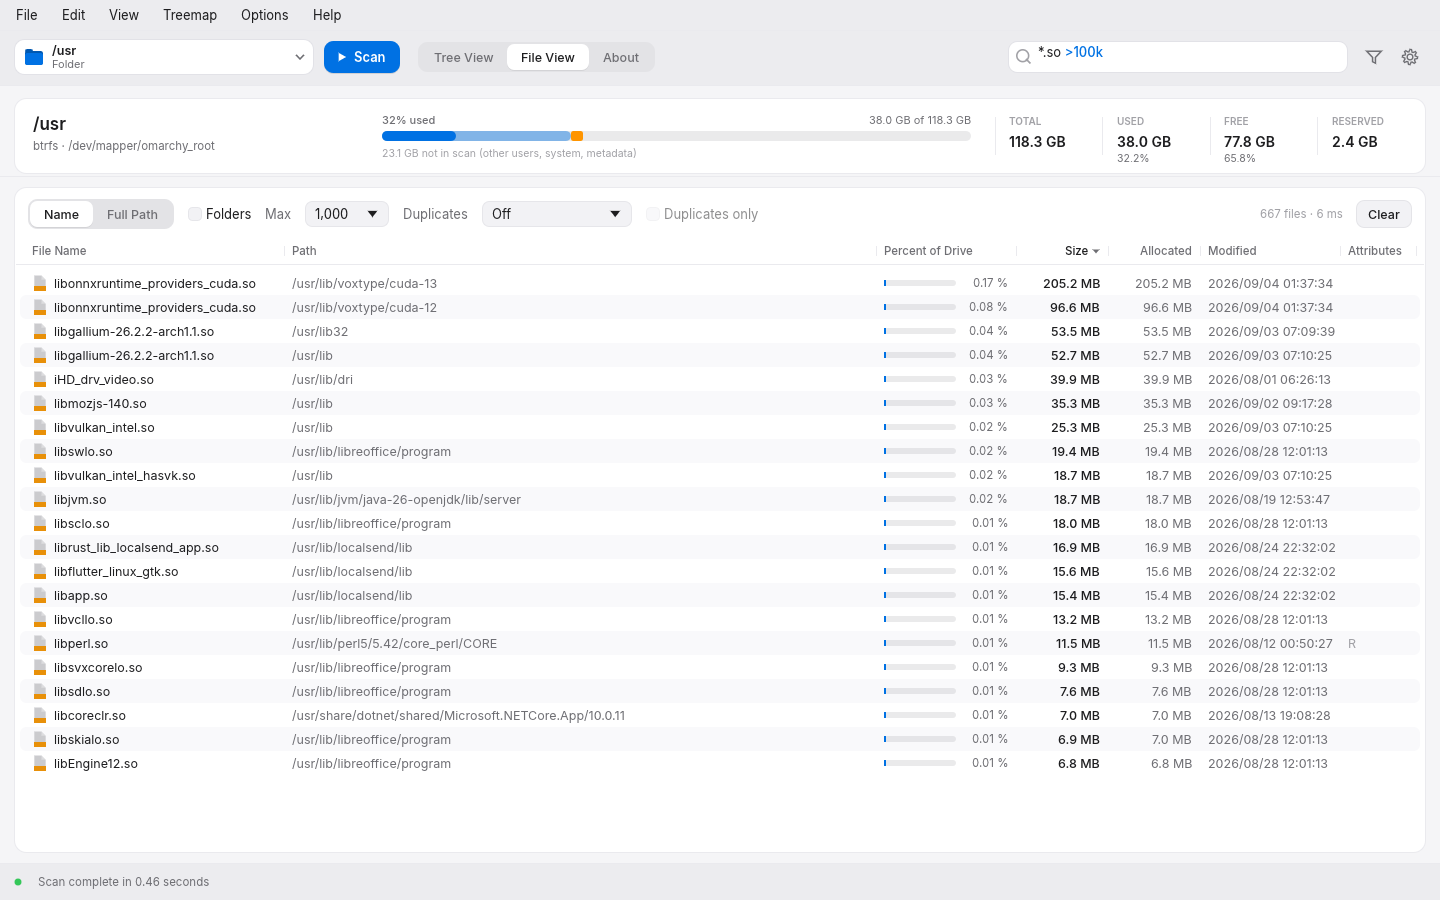
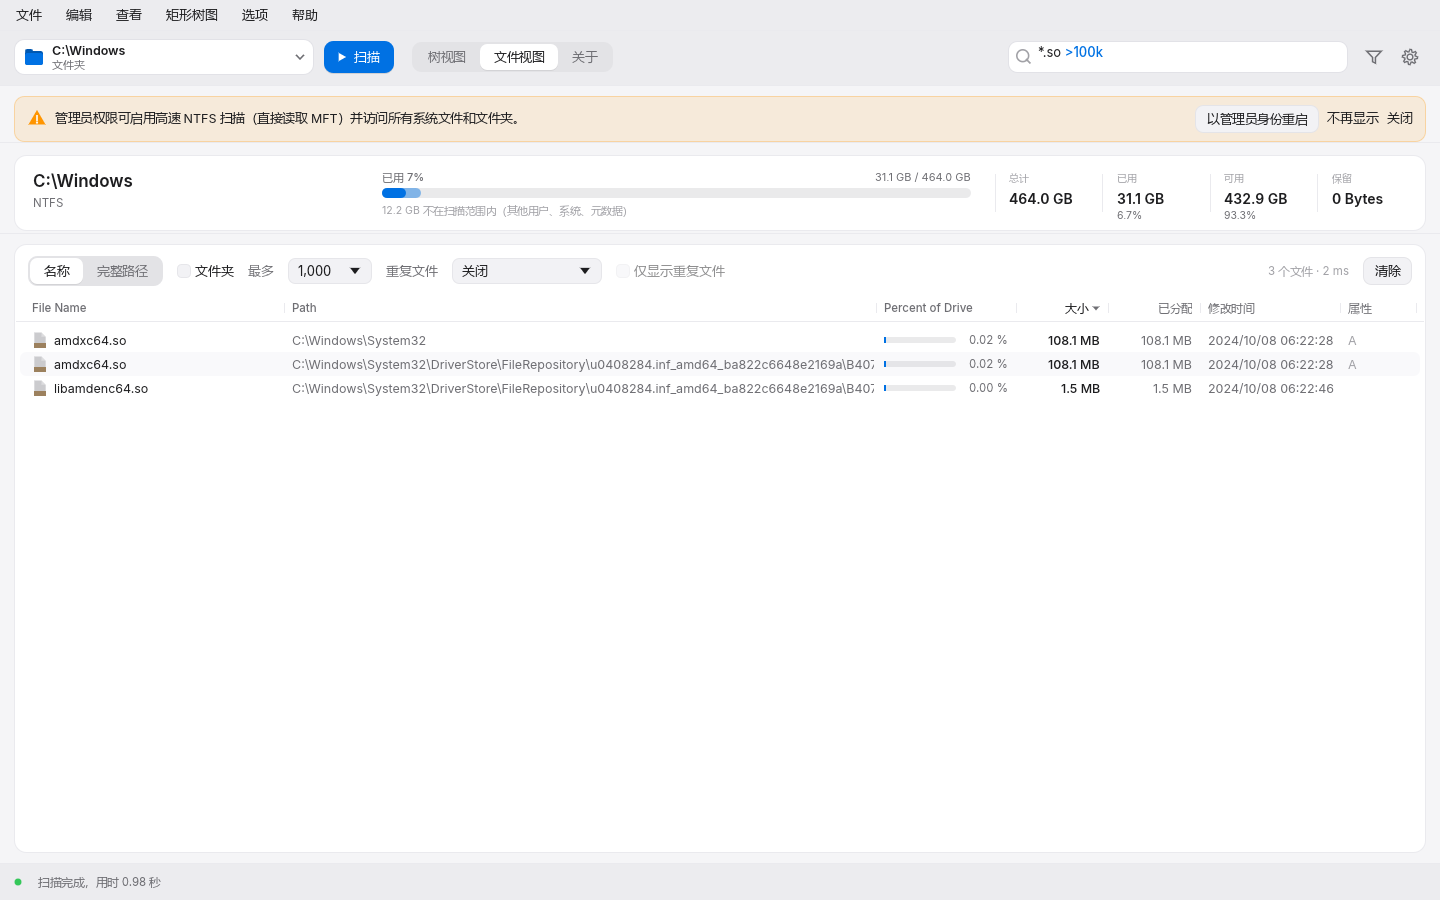
汉化: 文件类型/文件视图全中文 + 更新中文界面截图

diff --git a/src/ui/file_view.rs b/src/ui/file_view.rs
@@ -5,6 +5,7 @@ use super::{App, Cmd, chrome, icons, tree_view};
 use crate::config::{DupMode, Settings};
 use crate::filter::{DupInfo, Matcher};
 use crate::format;
+use crate::i18n::tr;
 use crate::model::{NodeId, Tree, NONE};
 use crate::theme;
 use eframe::egui::{self, Color32, CornerRadius, Id, Pos2, RichText, Stroke, Ui, Vec2};
@@ -249,30 +250,30 @@ fn options_bar(app: &mut App, ui: &mut Ui) {
     let pal = app.pal;
     ui.spacing_mut().item_spacing.x = 14.0;
     let mut mp = app.s.match_path;
-    if chrome::segmented(ui, &pal, &mut mp, &[(false, "Name"), (true, "Full Path")]) {
+    if chrome::segmented(ui, &pal, &mut mp, &[(false, &tr("Name")), (true, &tr("Full Path"))]) {
         app.s.match_path = mp;
     }
-    ui.checkbox(&mut app.s.show_folders_in_files, "Folders");
-    ui.label(RichText::new("Max").color(pal.text2));
-    let label = if app.s.max_files == 0 { "All".to_string() } else { format::thousands(app.s.max_files as u64) };
+    ui.checkbox(&mut app.s.show_folders_in_files, tr("Folders"));
+    ui.label(RichText::new(tr("Max")).color(pal.text2));
+    let label = if app.s.max_files == 0 { tr("All").to_string() } else { format::thousands(app.s.max_files as u64) };
     egui::ComboBox::from_id_salt("maxfiles").selected_text(label).width(84.0).show_ui(ui, |ui| {
         for v in [100usize, 1000, 10_000, 100_000, 1_000_000, 0] {
-            let l = if v == 0 { "All".to_string() } else { format::thousands(v as u64) };
+            let l = if v == 0 { tr("All").to_string() } else { format::thousands(v as u64) };
             ui.selectable_value(&mut app.s.max_files, v, l);
         }
     });
-    ui.label(RichText::new("Duplicates").color(pal.text2));
+    ui.label(RichText::new(tr("Duplicates")).color(pal.text2));
     let dl = match app.s.dup_mode {
-        DupMode::Off => "Off",
-        DupMode::NameSize => "Name + Size",
-        DupMode::NameSizeDate => "Name + Size + Date",
+        DupMode::Off => tr("Off"),
+        DupMode::NameSize => tr("Name + Size"),
+        DupMode::NameSizeDate => tr("Name + Size + Date"),
     };
     egui::ComboBox::from_id_salt("dupmode").selected_text(dl).width(150.0).show_ui(ui, |ui| {
-        ui.selectable_value(&mut app.s.dup_mode, DupMode::Off, "Don't locate duplicates");
-        ui.selectable_value(&mut app.s.dup_mode, DupMode::NameSize, "Locate by Name, Size");
-        ui.selectable_value(&mut app.s.dup_mode, DupMode::NameSizeDate, "Locate by Name, Size, Date");
+        ui.selectable_value(&mut app.s.dup_mode, DupMode::Off, tr("Don't locate duplicates"));
+        ui.selectable_value(&mut app.s.dup_mode, DupMode::NameSize, tr("Locate by Name, Size"));
+        ui.selectable_value(&mut app.s.dup_mode, DupMode::NameSizeDate, tr("Locate by Name, Size, Date"));
     });
-    ui.add_enabled(app.s.dup_mode != DupMode::Off, egui::Checkbox::new(&mut app.s.dups_only, "Duplicates only"));
+    ui.add_enabled(app.s.dup_mode != DupMode::Off, egui::Checkbox::new(&mut app.s.dups_only, tr("Duplicates only")));
     ui.with_layout(egui::Layout::right_to_left(egui::Align::Center), |ui| {
         if !app.fv.query.is_empty() && chrome::ghost_button(ui, &pal, "Clear").clicked() {
             app.fv.query.clear();
@@ -280,9 +281,9 @@ fn options_bar(app: &mut App, ui: &mut Ui) {
         }
         let shown = app.fv.results.len();
         let txt = if shown < app.fv.total {
-            format!("{} of {} · {:.0} ms", format::thousands(shown as u64), format::thousands(app.fv.total as u64), app.fv.search_ms)
+            format!("{} / {} · {:.0} ms", format::thousands(shown as u64), format::thousands(app.fv.total as u64), app.fv.search_ms)
         } else {
-            format!("{} files · {:.0} ms", format::thousands(app.fv.total as u64), app.fv.search_ms)
+            format!("{} {} · {:.0} ms", format::thousands(app.fv.total as u64), tr("files"), app.fv.search_ms)
         };
         ui.label(RichText::new(txt).color(pal.text3).font(theme::regular(11.5)));
     });

diff --git a/src/ui/chrome.rs b/src/ui/chrome.rs
@@ -321,7 +321,7 @@ fn search_field(app: &mut App, ui: &mut Ui) {
         ui.fonts_mut(|f| f.layout_job(job))
     };
     let te = egui::TextEdit::singleline(&mut app.fv.query)
-        .hint_text("Search files  (*.mp4, >1gb, !temp …)")
+        .hint_text(tr("Search files  (*.mp4, >1gb, !temp …)"))
         .frame(egui::Frame::NONE)
         .font(theme::regular(13.0))
         .desired_width(te_rect.width())
@@ -537,19 +537,19 @@ pub fn header(app: &mut App, ui: &mut Ui) {
                 }
                 // Stats
                 let mut sx = rect.right() - stats_w;
-                let stats: Vec<(&str, String, String)> = vec![
-                    ("TOTAL", if vol.total > 0 { f.size(vol.total) } else { "n/a".into() }, String::new()),
+                let stats: Vec<(String, String, String)> = vec![
+                    (tr("TOTAL"), if vol.total > 0 { f.size(vol.total) } else { "n/a".into() }, String::new()),
                     (
-                        "USED",
+                        tr("USED"),
                         if vol.total > 0 { f.size(vol.used()) } else { "n/a".into() },
                         if vol.total > 0 { format!("{:.1}%", vol.used() as f64 / vol.total as f64 * 100.0) } else { String::new() },
                     ),
                     (
-                        "FREE",
+                        tr("FREE"),
                         if vol.total > 0 { f.size(vol.free) } else { "n/a".into() },
                         if vol.total > 0 { format!("{:.1}%", vol.free as f64 / vol.total as f64 * 100.0) } else { String::new() },
                     ),
-                    ("RESERVED", if vol.total > 0 { f.size(vol.reserved) } else { "n/a".into() }, String::new()),
+                    (tr("RESERVED"), if vol.total > 0 { f.size(vol.reserved) } else { "n/a".into() }, String::new()),
                 ];
                 let cw = stats_w / stats.len() as f32;
                 for (k, v, sub) in stats {
@@ -661,10 +661,10 @@ pub fn banners(app: &mut App, ui: &mut Ui) {
                                 }
                             }
                             if show_admin {
-                                if ui.add(egui::Button::new("Don't show again").frame(false)).clicked() {
+                                if ui.add(egui::Button::new(tr("Don't show again")).frame(false)).clicked() {
                                     app.s.dont_show_admin_warning = true;
                                 }
-                            } else if ui.add(egui::Button::new("Show folders").frame(false)).clicked() {
+                            } else if ui.add(egui::Button::new(tr("Show folders")).frame(false)).clicked() {
                                 app.dlg.denied = true;
                             }
                             if ghost_button(ui, &pal, "Restart as Administrator").clicked() {

diff --git a/src/ui/snapshots.rs b/src/ui/snapshots.rs
@@ -33,6 +33,14 @@ fn shot(h: &mut Harness<'_, App>, name: &str) {
 #[ignore]
 fn snapshots() {
     let path = std::env::var("WT_SNAP_PATH").unwrap_or_else(|_| "/usr".into());
+    // Render the UI in a translated language (default zh_CN). Point
+    // MOSAICDISK_LOCALE_DIR at the repo's `locale/` folder (or ship `locale/`
+    // next to the test binary) so the catalogue can be found.
+    let lang = std::env::var("WT_SNAP_LANG").unwrap_or_else(|_| "zh_CN".into());
+    if !lang.is_empty() {
+        let ok = crate::i18n::load(&lang);
+        println!("i18n {lang}: {ok} (dir {:?})", crate::i18n::locale_dir());
+    }
     let mut h = Harness::builder()
         .with_size([1440.0, 900.0])
         .with_pixels_per_point(1.0)

diff --git a/src/i18n.rs b/src/i18n.rs
@@ -37,6 +37,13 @@ pub fn tr(s: &str) -> String {
 /// Directory searched for translations (the first that exists, else the
 /// one next to the executable).
 pub fn locale_dir() -> PathBuf {
+    // Override for tests, CI and portable setups.
+    if let Some(d) = std::env::var_os("MOSAICDISK_LOCALE_DIR") {
+        let p = PathBuf::from(d);
+        if p.is_dir() {
+            return p;
+        }
+    }
     let exe_dir = std::env::current_exe().ok().and_then(|p| p.parent().map(Path::to_path_buf));
     let mut cands = Vec::new();
     if let Some(d) = &exe_dir {

diff --git a/src/filetypes.rs b/src/filetypes.rs
@@ -2,7 +2,7 @@
 
 pub fn describe(ext: &str) -> String {
     if ext.is_empty() {
-        return "File".to_string();
+        return crate::i18n::tr("File");
     }
     let known = match ext {
         "txt" | "text" => "Text Document",
@@ -128,8 +128,8 @@ pub fn describe(ext: &str) -> String {
         _ => "",
     };
     if known.is_empty() {
-        format!("{} File", ext.to_uppercase())
+        format!("{} {}", ext.to_uppercase(), crate::i18n::tr("File"))
     } else {
-        known.to_string()
+        crate::i18n::tr(known)
     }
 }
